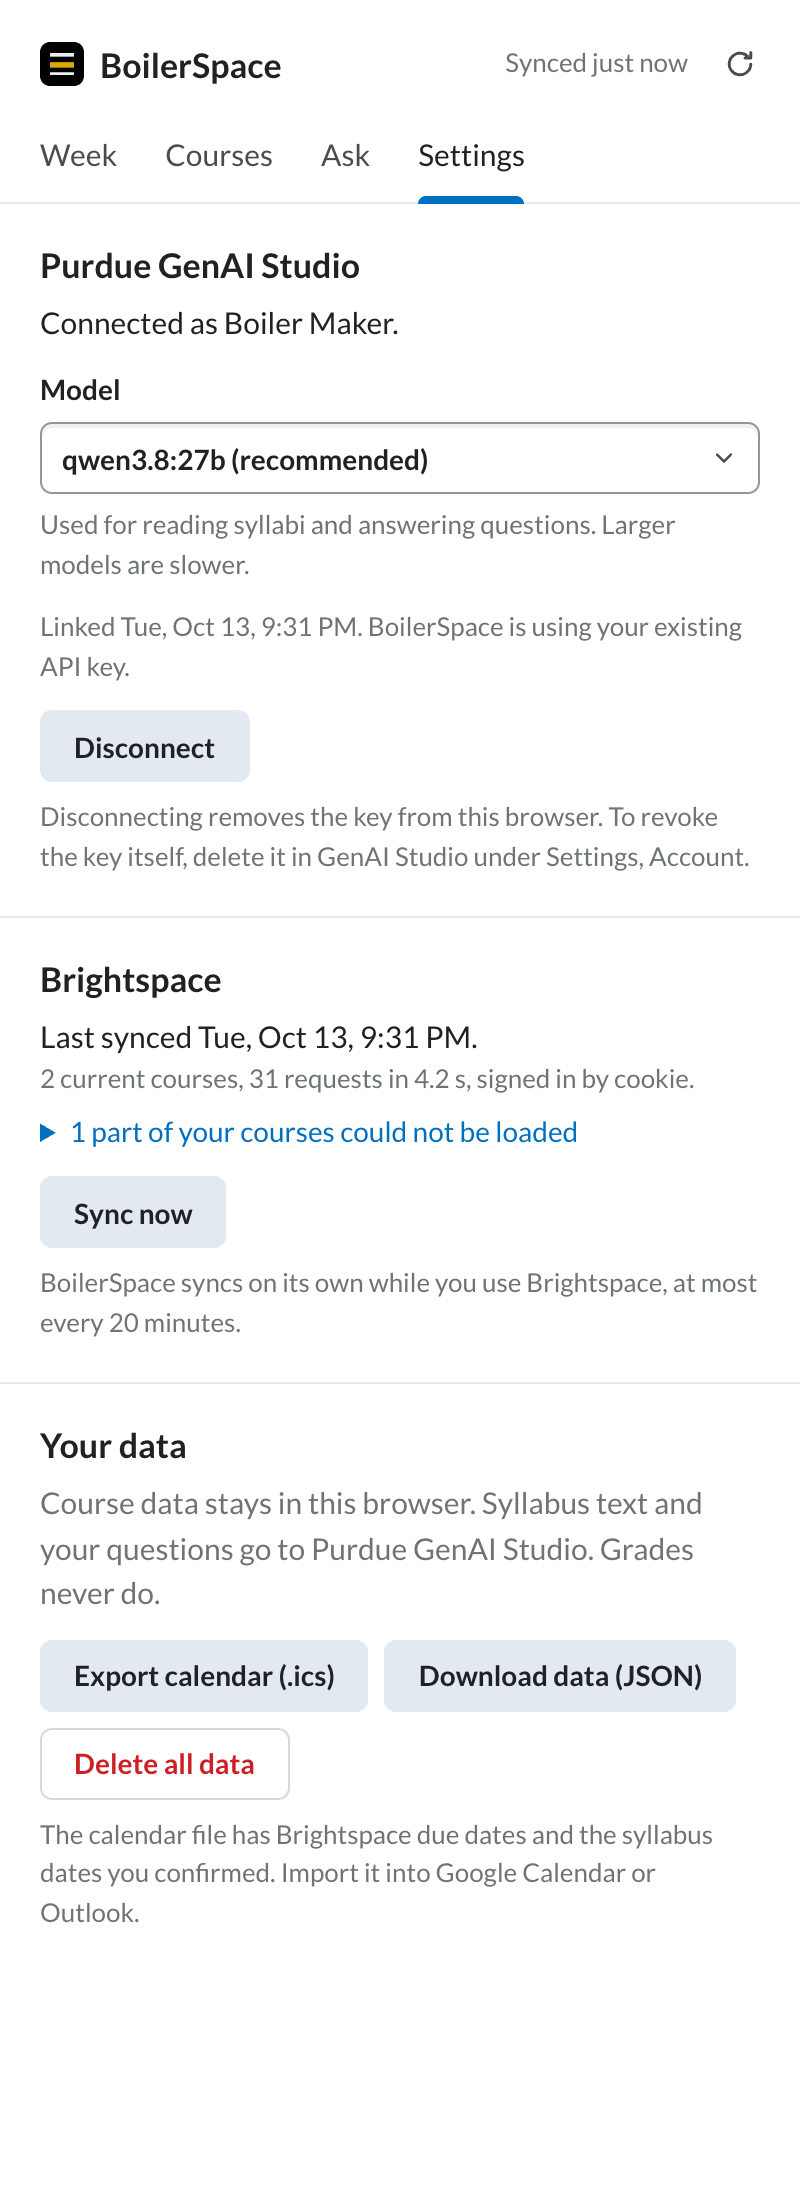
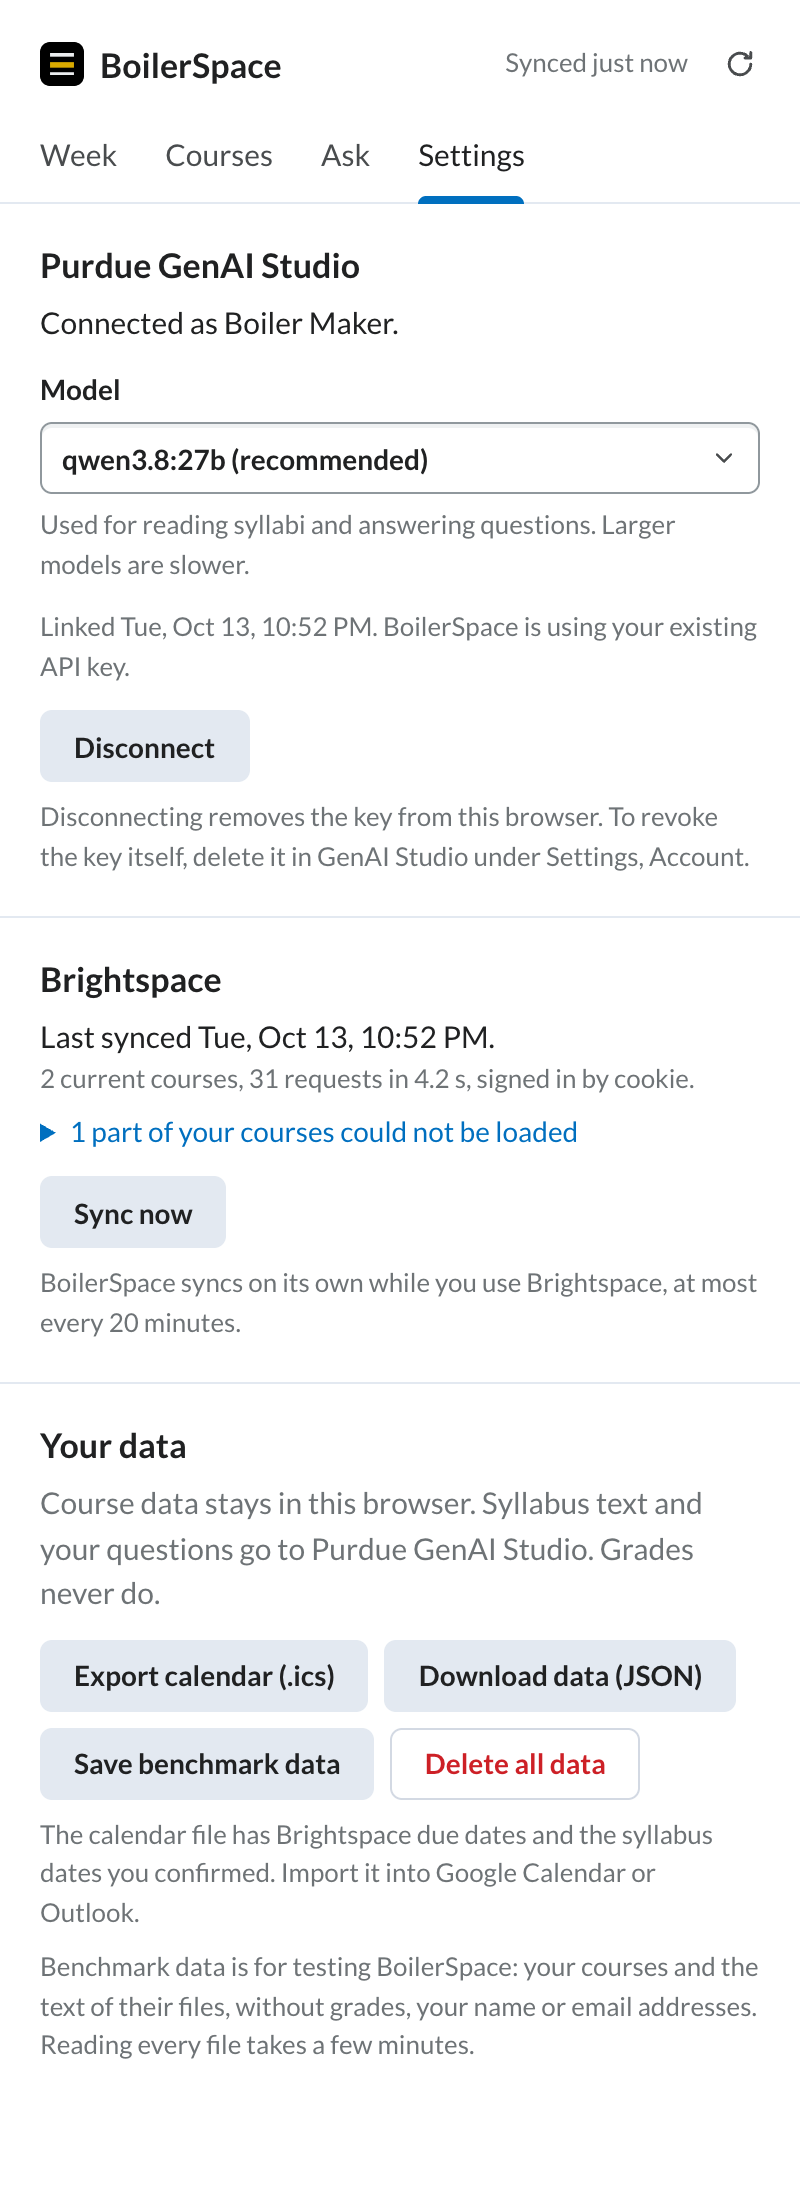
Search opened course files and quiz details, look up items by title, and refuse to answer from a file that failed to open

diff --git a/extension/lib/agent.js b/extension/lib/agent.js
@@ -6,7 +6,7 @@ import { agendaItems, courseTitle, currentCourses, shortCourseLabel } from './pl
 import { buildIndex, documentsFromSnapshot, search, tokenize } from './search.js';
 import { dayKey, daysFromToday, dueDisplay, formatDayKey } from './dates.js';
 import { usableRecord } from './syllabus.js';
-import { readCourseFile } from './files.js';
+import { getCachedCourseFile, readCourseFile } from './files.js';
 import { locationUrl, syllabusFile } from './links.js';
 
 const MAX_TURNS = 8;
@@ -37,12 +37,19 @@ const TOOLS = [
   },
   {
     name: 'get_item',
-    description: 'Get full details and instructions for one assignment or quiz, by the item_key from list_upcoming.',
-    parameters: { type: 'object', properties: { item_key: { type: 'string' } }, required: ['item_key'] },
+    description: 'Get full details, time limit, attempts allowed, and instructions for one assignment or quiz, by item_key (from list_upcoming or search_course_material) or by title.',
+    parameters: {
+      type: 'object',
+      properties: {
+        item_key: { type: 'string', description: 'e.g. "quiz:21" or "assignment:11", or a quiz/assignment title.' },
+        course_id: { type: 'integer', description: 'Optional course id when looking up by title.' },
+      },
+      required: ['item_key'],
+    },
   },
   {
     name: 'search_course_material',
-    description: 'Keyword search over syllabi, assignment instructions, quiz descriptions, announcements and content titles.',
+    description: 'Keyword search over syllabi, assignment instructions, quiz descriptions, announcements, content titles and readable course files.',
     parameters: {
       type: 'object',
       properties: { query: { type: 'string' }, course_id: { type: 'integer', description: 'Limit to one course.' } },
@@ -51,12 +58,12 @@ const TOOLS = [
   },
   {
     name: 'get_syllabus_facts',
-    description: 'Get policies (late work, AI use, attendance, office hours, grading weights) and syllabus dates for one course.',
+    description: 'Get extracted policies (late work, AI use, attendance, office hours, grading weights) and syllabus dates for a course whose syllabus has already been read.',
     parameters: { type: 'object', properties: { course_id: { type: 'integer' } }, required: ['course_id'] },
   },
   {
     name: 'list_announcements',
-    description: 'List recent course announcements, newest first.',
+    description: 'List recent course announcements (including exam rooms, schedule updates, and reminders), newest first.',
     parameters: {
       type: 'object',
       properties: { course_id: { type: 'integer' }, limit: { type: 'integer', description: 'Default 5, max 15.' } },
@@ -105,15 +112,33 @@ class SourceRegistry {
   }
 }
 
-export function createTools({ snapshot, syllabi = {}, reviews = {}, now = new Date(), readFile = readCourseFile }) {
+// cachedFile(topic, { syllabi }) returns a promise for a file that is already loaded, or null. Search only
+// covers those, because opening every file in the background would download whole courses.
+export function createTools({ snapshot, syllabi = {}, reviews = {}, now = new Date(), readFile = readCourseFile, cachedFile = readFile === readCourseFile ? getCachedCourseFile : null }) {
   const sources = new SourceRegistry();
   const courses = currentCourses(snapshot);
   const label = (courseId) => {
     const course = courses.find((c) => c.id === courseId);
     return course ? shortCourseLabel(course) : String(courseId);
   };
-  let index = null;
-  const getIndex = () => (index ??= buildIndex(documentsFromSnapshot(snapshot, syllabi)));
+  let indexPromise = null;
+  async function getIndex() {
+    if (indexPromise) return indexPromise;
+    indexPromise = (async () => {
+      const files = [];
+      for (const data of snapshot.data) {
+        if (!courses.some((c) => c.id === data.courseId)) continue;
+        for (const topic of courseFiles(data.courseId)) {
+          const loader = (topic.fileUrl || topic.text) && cachedFile?.(topic, { syllabi });
+          if (!loader) continue;
+          const res = await loader.catch(() => null);
+          if (res?.pages?.length) files.push({ ...topic, kind: res.kind, pages: res.pages });
+        }
+      }
+      return buildIndex(documentsFromSnapshot(snapshot, syllabi, { files }));
+    })();
+    return indexPromise;
+  }
 
   function resolveCourse(value) {
     if (value === undefined || value === null || value === '') return null;
@@ -132,8 +157,10 @@ export function createTools({ snapshot, syllabi = {}, reviews = {}, now = new Da
     return title.toLowerCase().replace(/\s+/g, ' ').startsWith(course.toLowerCase()) ? title : `${course} ${title}`;
   };
 
-  const syllabusSource = (record, page) =>
-    sources.add({ key: `syllabus:${record.courseId}:${page}`, label: `${label(record.courseId)} syllabus, ${page}`, url: locationUrl(syllabusFile(record, snapshot), page) });
+  const syllabusSource = (record, page, fallbackCourseId = null) => {
+    const cId = record.courseId ?? fallbackCourseId;
+    return sources.add({ key: `syllabus:${cId}:${page}`, label: `${label(cId)} syllabus, ${page}`, url: locationUrl(syllabusFile(record, snapshot), page) });
+  };
 
   function courseFiles(courseId) {
     const data = snapshot.data.find((d) => d.courseId === courseId);
@@ -214,36 +241,57 @@ export function createTools({ snapshot, syllabi = {}, reviews = {}, now = new Da
         }));
     },
 
-    get_item({ item_key }) {
-      const [kind, rawId] = String(item_key).split(':');
-      for (const data of snapshot.data) {
-        const list = kind === 'quiz' ? data.quizzes : kind === 'assignment' ? data.assignments : [];
-        const item = list.find((i) => String(i.id) === rawId);
-        if (!item) continue;
-        return {
-          source: sources.add({ key: `${item.kind}:${item.id}`, label: `${label(item.courseId)}: ${item.title}`, url: item.url }),
-          course: label(item.courseId),
-          title: item.title,
-          kind: item.kind,
-          due_display: dueDisplay(item.dueAt),
-          days_from_today: item.dueAt ? daysFromToday(item.dueAt, now) : null,
-          available_until: item.endAt ? dueDisplay(item.endAt) : null,
-          instructions: clip(item.instructions, DETAIL_CHARS) || '(no instructions posted)',
-          ...(item.kind === 'assignment' ? { points: item.points, has_rubric: item.hasRubric } : {}),
-          ...(item.kind === 'quiz' ? { time_limit_minutes: item.timeLimitMinutes, attempts_allowed: item.attempts } : {}),
-        };
+    get_item({ item_key, course_id }) {
+      const course = resolveCourse(course_id);
+      const raw = String(item_key ?? '').trim();
+      const [kind, rawId] = raw.split(':');
+      const pools = snapshot.data.filter((d) => !course || d.courseId === course.id);
+      let found = null;
+      if (rawId !== undefined && (kind === 'quiz' || kind === 'assignment')) {
+        for (const data of pools) {
+          const list = kind === 'quiz' ? data.quizzes : data.assignments;
+          const item = (list ?? []).find((i) => String(i.id) === rawId);
+          if (item) {
+            found = item;
+            break;
+          }
+        }
       }
-      throw new Error(`No assignment or quiz has item_key "${item_key}".`);
+      if (!found) {
+        const needle = (rawId !== undefined ? `${kind} ${rawId}` : raw).toLowerCase().trim();
+        const escaped = needle.replace(/[.*+?^${}()|[\]\\]/g, '\\$&');
+        const allItems = pools.flatMap((d) => [...(d.assignments ?? []), ...(d.quizzes ?? [])]).filter((i) => !i.isHidden && i.isActive !== false);
+        found =
+          allItems.find((i) => String(i.id) === raw || i.title.toLowerCase() === needle) ??
+          allItems.find((i) => new RegExp(`(^|\\W)${escaped}(\\W|$)`, 'i').test(i.title)) ??
+          allItems.find((i) => i.title.toLowerCase().includes(needle));
+      }
+      if (!found) throw new Error(`No assignment or quiz has item_key "${item_key}".`);
+      return {
+        source: sources.add({ key: `${found.kind}:${found.id}`, label: `${label(found.courseId)}: ${found.title}`, url: found.url }),
+        item_key: `${found.kind}:${found.id}`,
+        course: label(found.courseId),
+        title: found.title,
+        kind: found.kind,
+        due_display: dueDisplay(found.dueAt),
+        days_from_today: found.dueAt ? daysFromToday(found.dueAt, now) : null,
+        available_until: found.endAt ? dueDisplay(found.endAt) : null,
+        instructions: clip(found.instructions, DETAIL_CHARS) || '(no instructions posted)',
+        ...(found.kind === 'assignment' ? { points: found.points, has_rubric: found.hasRubric } : {}),
+        ...(found.kind === 'quiz' ? { time_limit_minutes: found.timeLimitMinutes, attempts_allowed: found.attempts } : {}),
+      };
     },
 
-    search_course_material({ query, course_id }) {
+    async search_course_material({ query, course_id }) {
       const course = resolveCourse(course_id);
-      const results = search(getIndex(), query, { courseId: course?.id ?? null });
+      const results = search(await getIndex(), query, { courseId: course?.id ?? null });
       if (!results.length) return { results: [], note: 'Nothing in the synced course material matches.' };
       return {
         results: results.map((r) => ({
           source: sources.add({ key: r.id, label: r.label, url: r.url }),
           label: r.label,
+          ...(r.item_key ? { item_key: r.item_key } : {}),
+          ...(r.file_key ? { file_key: r.file_key } : {}),
           snippet: clip(r.text, SNIPPET_CHARS),
         })),
       };
@@ -254,24 +302,31 @@ export function createTools({ snapshot, syllabi = {}, reviews = {}, now = new Da
       if (!course) throw new Error('course_id is required.');
       const record = usableRecord(syllabi[course.id]);
       if (!record) {
-        return { note: 'No syllabus has been read for this course yet. It may be named differently or sit in the course overview: call list_course_files and open the likely file with read_course_file.' };
+        const candidates = courseFiles(course.id)
+          .filter((t) => t.fileUrl || t.text)
+          .slice(0, 8)
+          .map((t) => ({ file_key: t.key, title: t.title }));
+        return {
+          note: 'No syllabus has been read for this course yet. It may be named differently or sit in the course overview: call list_course_files or open one of candidate_files with read_course_file.',
+          candidate_files: candidates,
+        };
       }
-      const fact = (f) => (f ? { summary: f.summary, quote: f.quote, source: syllabusSource(record, f.page) } : 'not stated in the syllabus');
+      const fact = (f) => (f ? { summary: f.summary, quote: f.quote, source: syllabusSource(record, f.page, course.id) } : 'not stated in the syllabus');
       const ai = record.policies.aiUse;
       return {
         course: label(course.id),
         late_work: fact(record.policies.lateWork),
-        ai_use: ai.quote ? { stance: ai.stance, summary: ai.summary, quote: ai.quote, source: syllabusSource(record, ai.page) } : { stance: 'unclear' },
+        ai_use: ai.quote ? { stance: ai.stance, summary: ai.summary, quote: ai.quote, source: syllabusSource(record, ai.page, course.id) } : { stance: 'unclear' },
         attendance: fact(record.policies.attendance),
         office_hours: fact(record.policies.officeHours),
-        grading: record.policies.grading.map((g) => ({ component: g.component, weight_percent: g.weight, source: syllabusSource(record, g.page) })),
+        grading: record.policies.grading.map((g) => ({ component: g.component, weight_percent: g.weight, source: syllabusSource(record, g.page, course.id) })),
         syllabus_dates: record.deadlines
           .filter((d) => reviews[d.id] !== 'dismissed')
           .map((d) => ({
             title: d.title,
             kind: d.kind,
             due_display: d.dueAt ? dueDisplay(d.dueAt) : dueDisplay(d.date, { allDay: true }),
-            source: syllabusSource(record, d.page),
+            source: syllabusSource(record, d.page, course.id),
           })),
       };
     },
@@ -316,9 +371,19 @@ export function createTools({ snapshot, syllabi = {}, reviews = {}, now = new Da
     async read_course_file({ file_key, query }) {
       const topic = findFile(file_key);
       if (!topic) throw new Error(`No course file has file_key "${file_key}". Call list_course_files first.`);
-      const { kind, pages, warning } = await readFile(topic, { syllabi });
+      let loaded;
+      try {
+        loaded = await readFile(topic, { syllabi });
+      } catch (err) {
+        return {
+          error: `Could not open "${topic.title}" (${file_key}): ${err.message}`,
+          note: `The file "${topic.title}" could not be opened (${err.message}). If the student asked specifically about the contents of this file, tell them it could not be opened and why, and do not substitute another file to answer questions about specific slides or pages in "${topic.title}".`,
+        };
+      }
+      const { kind, pages, warning } = loaded;
       const readable = (pages ?? []).filter((p) => p.text);
       if (!readable.length) return { note: warning ?? 'No text could be read from this file.' };
+      if (indexPromise) indexPromise = null;
       const file = { url: topic.url, fileHref: topic.fileHref, kind };
       const docs = readable.map((p) => ({
         id: `file:${topic.key}:${p.page}`,
@@ -494,9 +559,10 @@ export async function ask({
   onText = null,
   signal = null,
   readFile,
+  cachedFile,
   complete = chatCompletion,
 }) {
-  const tools = createTools({ snapshot, syllabi, reviews, now, ...(readFile ? { readFile } : {}) });
+  const tools = createTools({ snapshot, syllabi, reviews, now, ...(readFile ? { readFile } : {}), ...(cachedFile !== undefined ? { cachedFile } : {}) });
   const messages = [
     { role: 'system', content: systemPrompt({ snapshot, syllabi, now, scopeCourseId }) },
     ...history.slice(-HISTORY_MESSAGES).map(({ role, content }) => ({ role, content })),

diff --git a/extension/lib/search.js b/extension/lib/search.js
@@ -1,5 +1,6 @@
 // BM25 keyword search over synced course material. Small enough to rebuild on every question.
 
+import { dueDisplay } from './dates.js';
 import { shortCourseLabel } from './courses.js';
 import { locationUrl, syllabusFile } from './links.js';
 
@@ -80,14 +81,39 @@ export function search(index, query, { courseId = null, limit = 6 } = {}) {
     .map(({ entry, score }) => ({ ...entry, tf: undefined, score: Math.round(score * 100) / 100 }));
 }
 
-export function documentsFromSnapshot(snapshot, syllabi = {}) {
+function itemDetailsText(item) {
+  const meta = [];
+  if (item.dueAt) meta.push(`Due: ${dueDisplay(item.dueAt)}`);
+  if (item.endAt) meta.push(`Available until: ${dueDisplay(item.endAt)}`);
+  if (item.kind === 'assignment' && item.points != null) meta.push(`Points: ${item.points}`);
+  if (item.kind === 'quiz') {
+    if (item.timeLimitMinutes != null) meta.push(`Time limit: ${item.timeLimitMinutes} minutes`);
+    if (item.attempts != null) meta.push(`Attempts allowed: ${item.attempts}`);
+  }
+  return [meta.join('. '), item.instructions ?? ''].filter(Boolean).join('\n');
+}
+
+export function documentsFromSnapshot(snapshot, syllabi = {}, { files = [] } = {}) {
   const docs = [];
   const courseName = new Map(snapshot.courses.map((c) => [c.id, shortCourseLabel(c)]));
+  const fileLabel = (courseId, title) => {
+    const course = courseName.get(courseId) ?? String(courseId);
+    return title.toLowerCase().replace(/\s+/g, ' ').startsWith(course.toLowerCase()) ? title : `${course} ${title}`;
+  };
   for (const data of snapshot.data) {
     const course = courseName.get(data.courseId);
     for (const item of [...data.assignments, ...data.quizzes]) {
       if (item.isHidden || item.isActive === false) continue;
-      docs.push({ id: `${item.kind}:${item.id}`, courseId: data.courseId, kind: item.kind, title: item.title, label: `${course}: ${item.title}`, url: item.url, text: item.instructions ?? '' });
+      docs.push({
+        id: `${item.kind}:${item.id}`,
+        item_key: `${item.kind}:${item.id}`,
+        courseId: data.courseId,
+        kind: item.kind,
+        title: item.title,
+        label: `${course}: ${item.title}`,
+        url: item.url,
+        text: itemDetailsText(item),
+      });
     }
     for (const a of data.announcements) {
       if (a.isHidden) continue;
@@ -95,16 +121,38 @@ export function documentsFromSnapshot(snapshot, syllabi = {}) {
     }
     for (const t of data.content) {
       if (t.isHidden) continue;
-      docs.push({ id: `content:${t.id}`, courseId: data.courseId, kind: 'content', title: t.title, label: `${course} content: ${[...t.modulePath, t.title].join(' / ')}`, url: t.url, text: t.modulePath.join(' ') });
+      docs.push({ id: `content:${t.id}`, file_key: t.fileUrl ? `content:${t.id}` : undefined, courseId: data.courseId, kind: 'content', title: t.title, label: `${course} content: ${[...t.modulePath, t.title].join(' / ')}`, url: t.url, text: t.modulePath.join(' ') });
     }
   }
-  for (const record of Object.values(syllabi)) {
+  const indexedSyllabusKeys = new Set();
+  for (const [key, record] of Object.entries(syllabi)) {
     const usable = record?.status === 'done' ? record : record?.previous;
     if (!usable?.pages) continue;
-    const course = courseName.get(usable.courseId);
+    const courseId = usable.courseId ?? Number(key);
+    const course = courseName.get(courseId);
     const file = syllabusFile(usable, snapshot);
+    if (usable.topicId) indexedSyllabusKeys.add(`${courseId}:${usable.topicId}`);
     for (const page of usable.pages) {
-      docs.push({ id: `syllabus:${usable.courseId}:${page.page}`, courseId: usable.courseId, kind: 'syllabus', title: usable.title, label: `${course} syllabus, ${page.label}`, url: locationUrl(file, page.label), text: page.text });
+      docs.push({ id: `syllabus:${courseId}:${page.page}`, courseId, kind: 'syllabus', title: usable.title, label: `${course} syllabus, ${page.label}`, url: locationUrl(file, page.label), text: page.text });
+    }
+  }
+  for (const f of files) {
+    if (!f?.pages?.length || indexedSyllabusKeys.has(`${f.courseId}:${f.id}`)) continue;
+    const fileKey = f.key ?? (f.id === 'overview' ? `overview:${f.courseId}` : `content:${f.id}`);
+    const file = { url: f.url, fileHref: f.fileHref, kind: f.kind };
+    for (const page of f.pages) {
+      if (!page.text) continue;
+      docs.push({
+        id: `file:${fileKey}:${page.label}`,
+        file_key: fileKey,
+        courseId: f.courseId,
+        kind: 'file',
+        title: f.title,
+        label: `${fileLabel(f.courseId, f.title)}, ${page.label}`,
+        url: locationUrl(file, page.label),
+        text: page.text,
+        location: page.label,
+      });
     }
   }
   return docs;

diff --git a/extension/lib/files.js b/extension/lib/files.js
@@ -6,15 +6,26 @@ import { downloadTopicFile } from './sync.js';
 const MAX_CACHED_FILES = 12;
 const cache = new Map();
 
+const findSyllabusRecord = (syllabi, topic) =>
+  Object.values(syllabi).find(
+    (r) =>
+      r?.status === 'done' &&
+      r.topicId !== undefined &&
+      r.topicId !== 'overview' &&
+      r.topicId === topic.id &&
+      (!topic.courseId || r.courseId === topic.courseId) &&
+      r.pages?.length,
+  );
+
 export async function readCourseFile(topic, { syllabi = {}, download = downloadTopicFile } = {}) {
-  const record = Object.values(syllabi).find((r) => r?.status === 'done' && r.topicId === topic.id && r.pages?.length);
+  const record = findSyllabusRecord(syllabi, topic);
   if (record) return { kind: record.kind, pages: record.pages, warning: record.warning ?? null };
   if (topic.text) return { kind: 'text', pages: [{ page: 1, label: 'overview', text: topic.text }], warning: null };
   if (!topic.fileUrl) {
     const host = topic.externalUrl ? new URL(topic.externalUrl).hostname : null;
     throw new Error(host ? `This item links outside Brightspace (${host}), so it can't be opened here.` : 'This item is not a file that can be opened.');
   }
-  const key = `${topic.id}|${topic.updatedAt ?? ''}`;
+  const key = `${topic.courseId ?? ''}:${topic.id}|${topic.updatedAt ?? ''}`;
   if (!cache.has(key)) {
     const loading = download(topic.fileUrl, { open: false }).then(extractText);
     cache.set(key, loading);
@@ -22,4 +33,12 @@ export async function readCourseFile(topic, { syllabi = {}, download = downloadT
     while (cache.size > MAX_CACHED_FILES) cache.delete(cache.keys().next().value);
   }
   return cache.get(key);
+}
+
+export function getCachedCourseFile(topic, { syllabi = {} } = {}) {
+  const record = findSyllabusRecord(syllabi, topic);
+  if (record) return Promise.resolve({ kind: record.kind, pages: record.pages, warning: record.warning ?? null });
+  if (topic.text) return Promise.resolve({ kind: 'text', pages: [{ page: 1, label: 'overview', text: topic.text }], warning: null });
+  const key = `${topic.courseId ?? ''}:${topic.id}|${topic.updatedAt ?? ''}`;
+  return cache.get(key) ?? null;
 }
